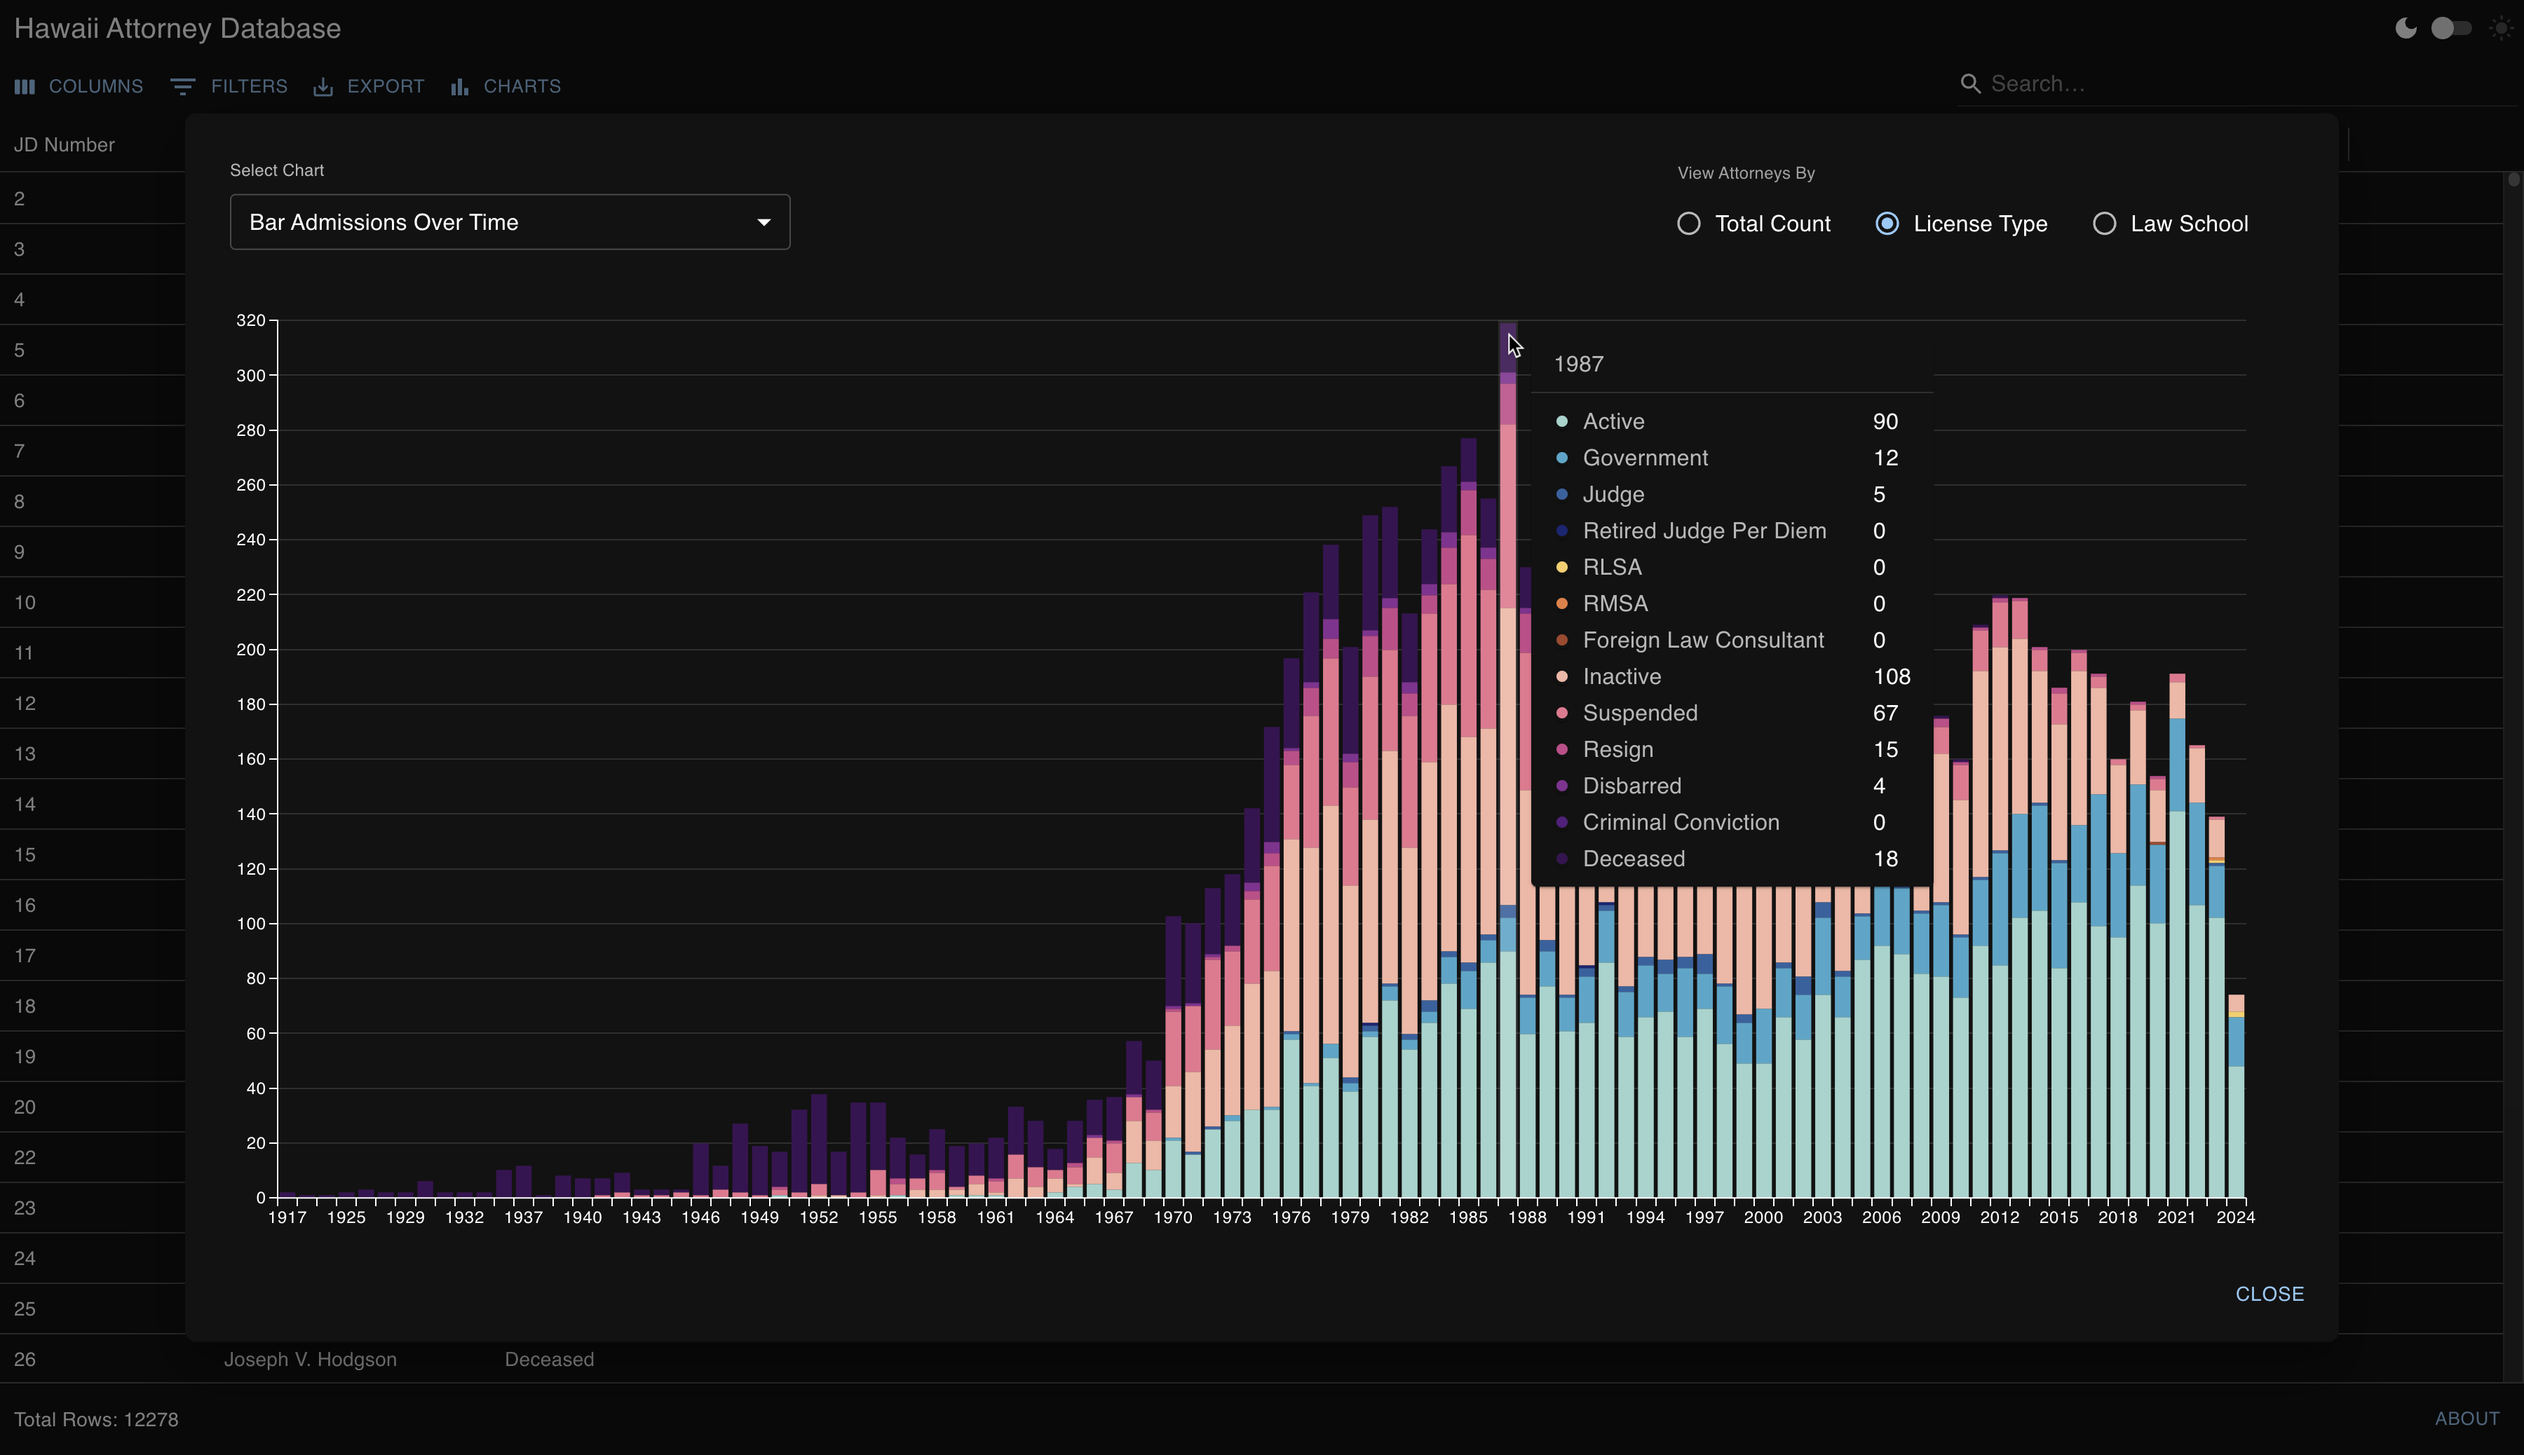
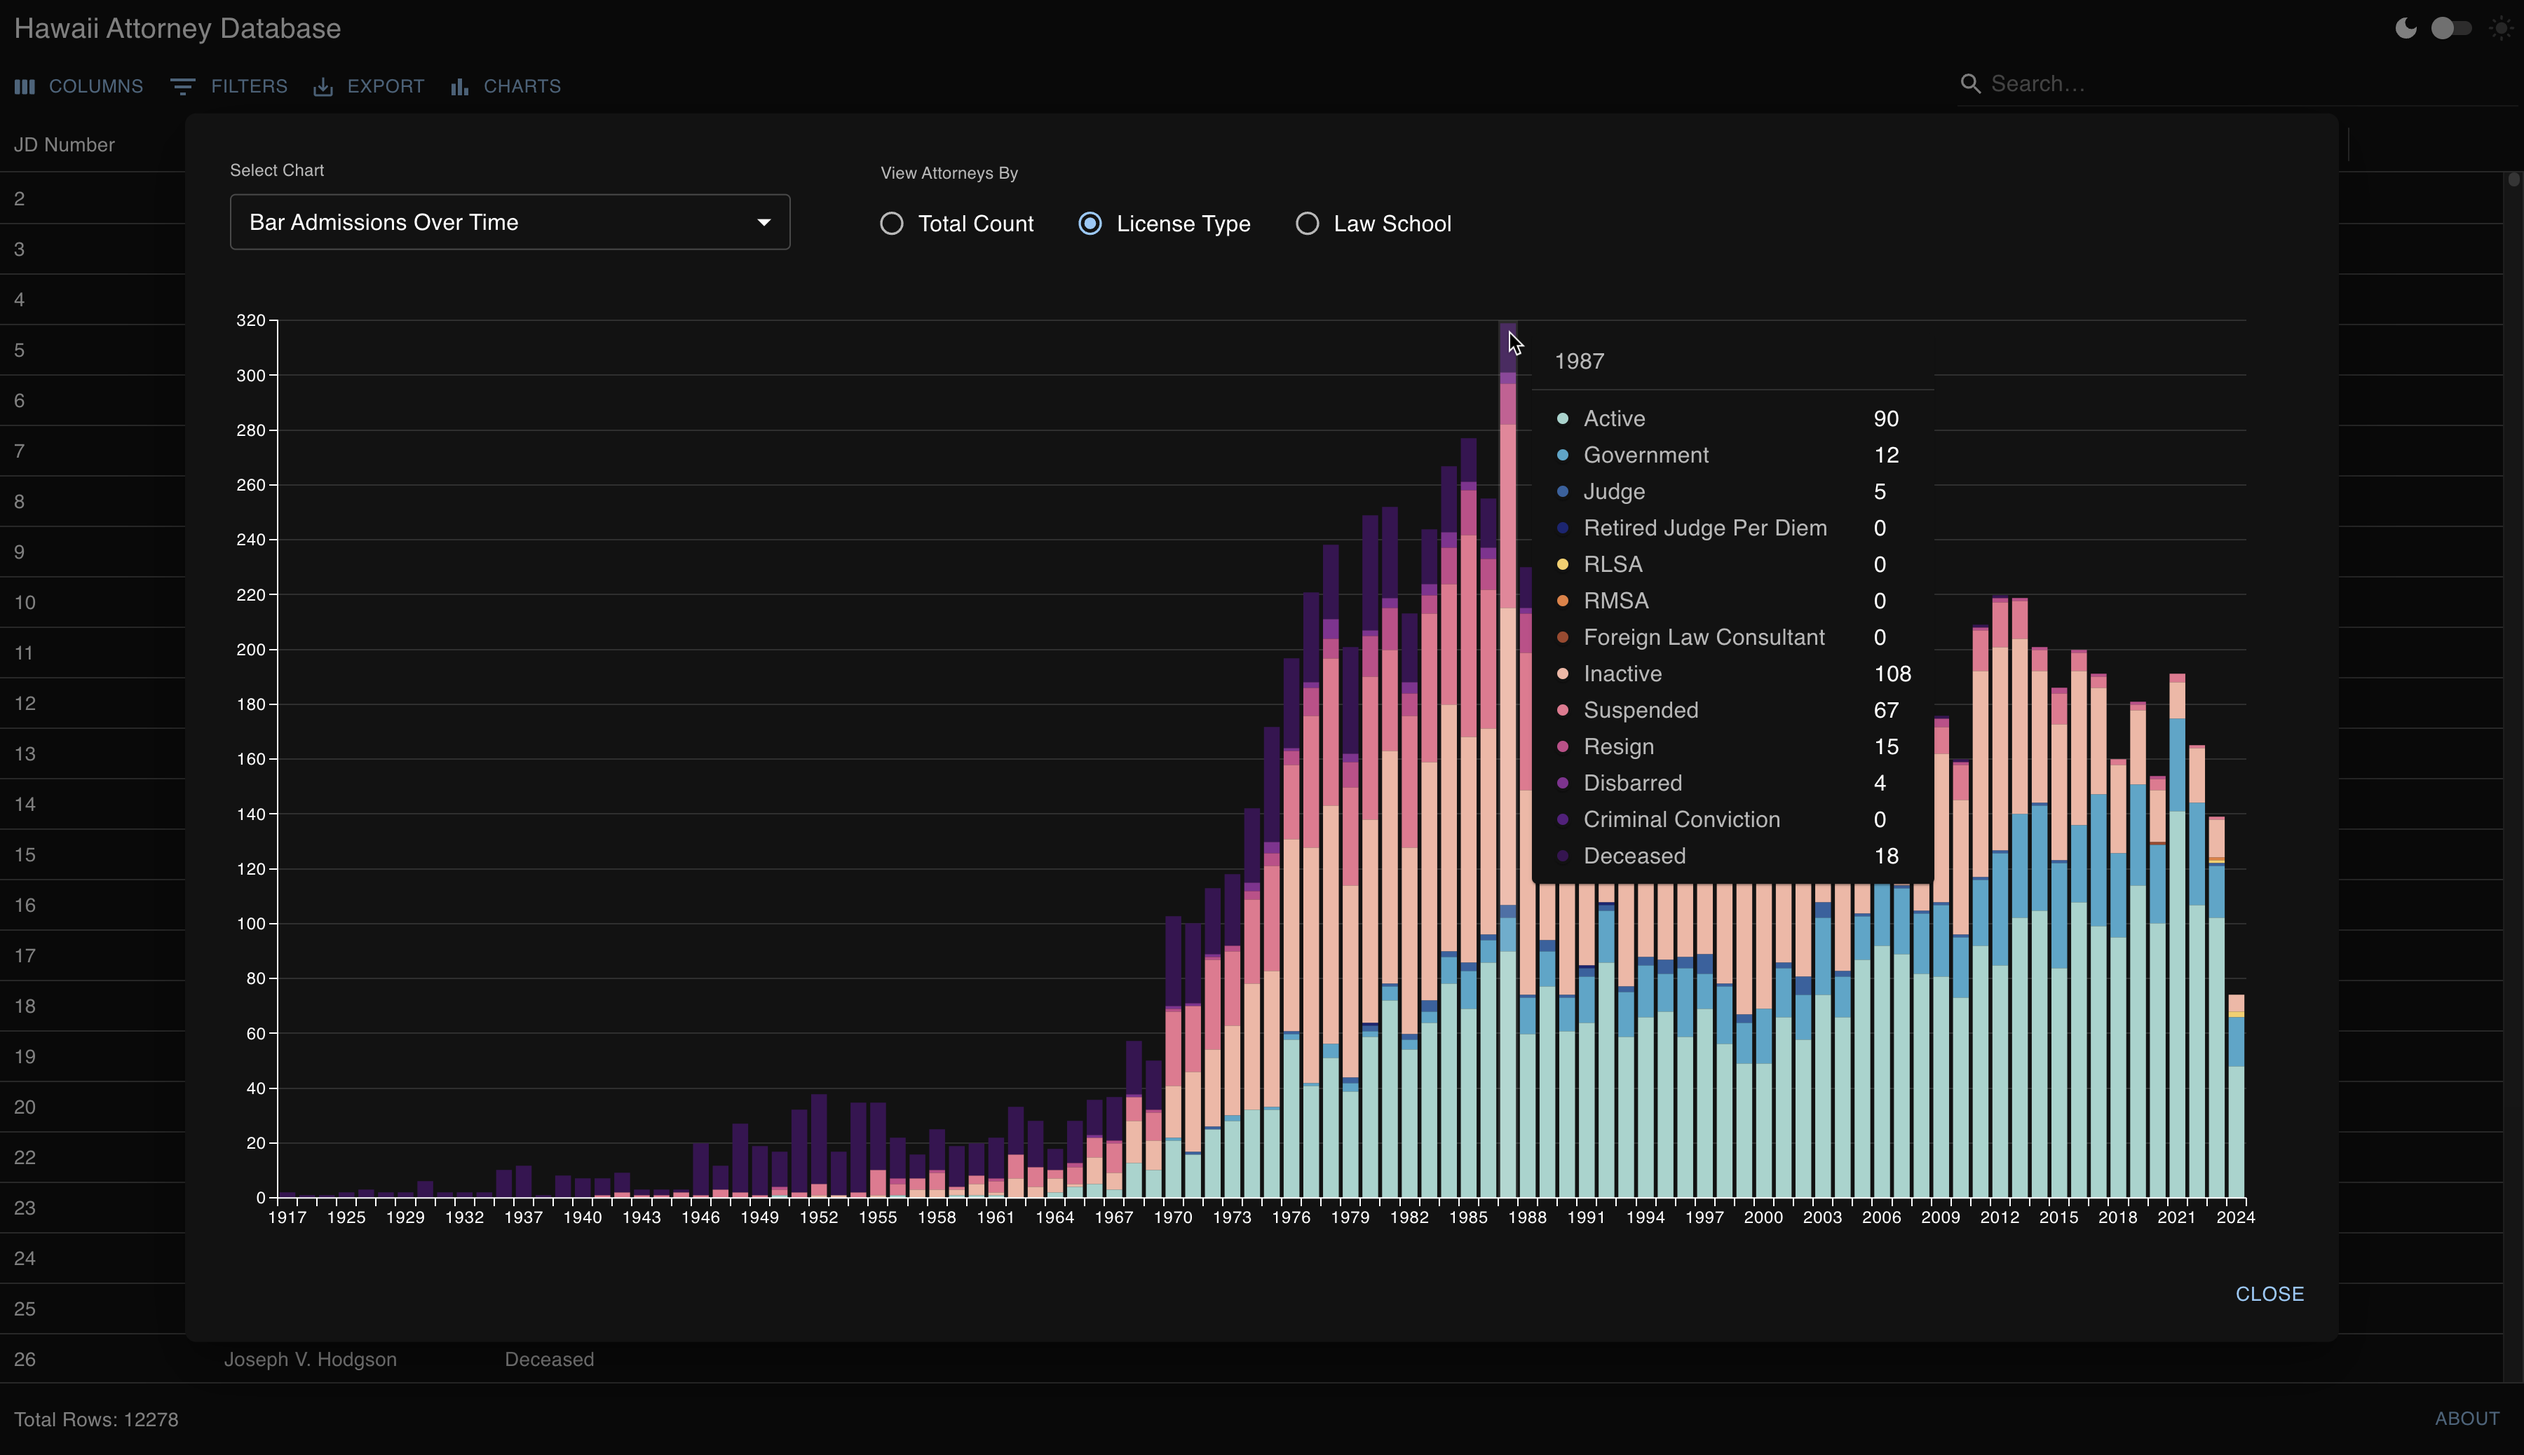
Modify Chart FormControl spacing

diff --git a/src/components/charts/ChartModal.tsx b/src/components/charts/ChartModal.tsx
@@ -100,7 +100,7 @@ export const ChartModal: FC<ChartModalProps> = ({ isOpen, onClose, paletteMode, 
         }}
       >
         <Box sx={{ pt: 4, pl: 4, pr: 6 }}>
-          <Box sx={{ alignItems: 'end', display: 'flex', justifyContent: 'space-between' }}>
+          <Box sx={{ alignItems: 'end', display: 'flex', gap: 4 }}>
             <FormControl sx={{ width: 400 }}>
               <FormLabel sx={{ fontSize: 12, mb: 1 }}>Select Chart</FormLabel>
 
